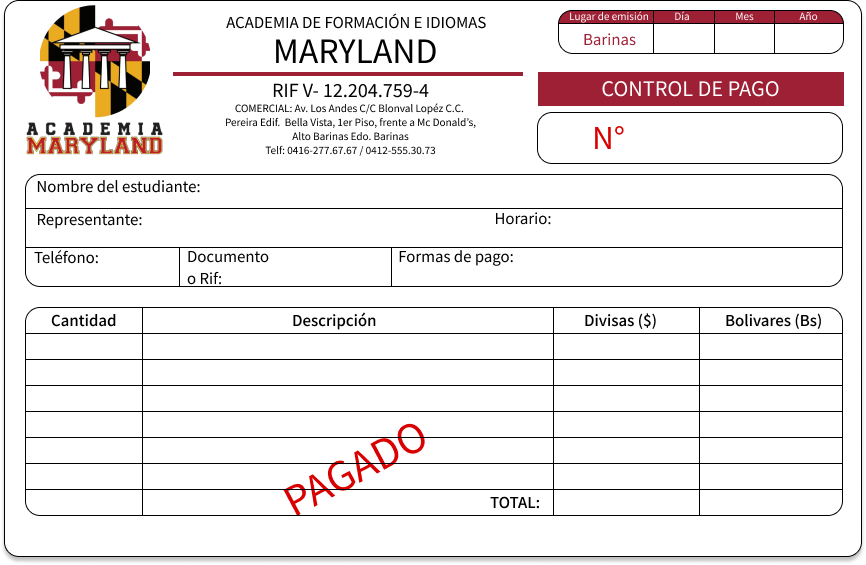
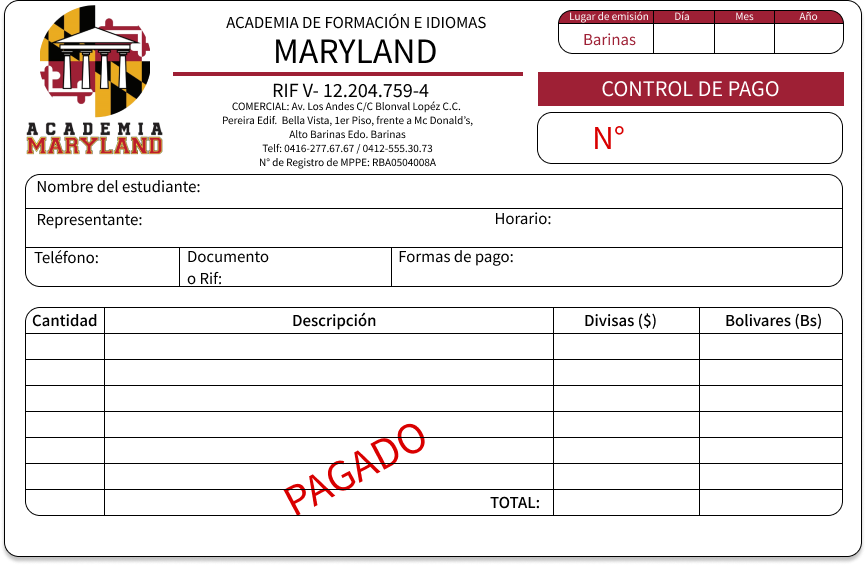
Correcciones en los recibos y planillas

Changed region(s): [[0.2494, 0.1805, 0.5612, 0.3009], [0.0312, 0.5416, 0.1247, 0.6018]]

diff --git a/resources/views/admin/pagos/recibo.blade.php b/resources/views/admin/pagos/recibo.blade.php
@@ -34,15 +34,16 @@
 
                                     {{-- Membrete de la academia --}}
                                     <div class="d-flex flex-column flex-fill align-self-center text-center text-dark mx-5">
-                                        <p class="m-0">FORMACIÓN E IDIOMAS FARFÁN</p>
-                                        <h3 class="text-primary">ACADEMIA MARYLAN</h3>
+                                        <p class="m-0">ACADEMIA DE FORMACIÓN E IDIOMAS</p>
+                                        <h2 class="text-primary">MARYLAN</h2>
                                         <div class="text-center bg-primary mx-5" style="height: 3px;"></div>
                                         <h5 class="m-0">RIF V- 12.204.759-4</h5>
                                         <p>
                                             COMERCIAL: Av. Los Andes C/C Blonval Lopéz C.C. <br>
                                             Pereira Edif. Bella Vista, 1er Piso, frente a Mc Donald’s, <br>
                                             Alto Barinas Edo. Barinas <br>
-                                            Telf: 0416-277.67.67 / 0412-555.30.73
+                                            Telf: 0416-277.67.67 / 0412-555.30.73 <br>
+                                            N° de Registro de MPPE: RBA0504008A
                                         </p>
 
                                     </div> {{-- Cierre Membrete de la academia --}}
@@ -98,7 +99,7 @@
                                                 Representante:
                                             </div>
                                             <span
-                                                class="ms-2 mt-2 fs-5">{{ $pago->estudiante['representante']['nombre'] ?? '' }}</span>
+                                                class="ms-2 mt-2 fs-5">{{ $pago->estudiante->representantes[0]['nombre'] ?? ''  }}</span>
                                         </div>
                                         <div class="d-flex d-inline-flex ms-5">
                                             <div class="card-text">
@@ -194,14 +195,23 @@
 
                         <div class="card-footer">
                             <div class="card-text text-center">
-                                <a href="/pagos/{{ $pago->id }}/recibopdf" class="btn btn-primary btn-lg"
-                                    id="imprimirRecibo" target="_self">Imprimir</a>
+                                <a href="/generarReciboDePago/{{ $pago->id }}/recibopdf" class="btn btn-primary btn-lg"
+                                    id="imprimirRecibo" target="_self">Imprimir Recibo de pago</a>
                             </div>
                         </div>
 
                     </div>
                 </div>
-
+                @if ($_GET['codigoInscripcion'])
+                    <p class="text-start  mt-3">
+                        <a href="/inscripciones/{{ $pago->cedula_estudiante }}/{{ $_GET['codigoInscripcion'] ?? '0000' }}"
+                            class="btn btn-primary btn-lg" target="_self" id="imprimirRecibo">
+                            <i class="bi bi-printer"></i>
+                            Imprimir Planilla de Inscripción
+                        </a>
+                    </p>
+                    
+                @endif
             </div>
 
 

diff --git a/app/Http/Controllers/PagoController.php b/app/Http/Controllers/PagoController.php
@@ -16,6 +16,7 @@ use Barryvdh\DomPDF\Facade\PDF;
 use App\Http\Requests\StorePagoRequest;
 use App\Http\Requests\UpdatePagoRequest;
 use Illuminate\Support\Facades\App;
+use Illuminate\Support\Facades\Request;
 
 class PagoController extends Controller
 {
@@ -69,16 +70,15 @@ class PagoController extends Controller
         }
     }
 
-    public function getPagoEstudiante($request)
+    public function getPagoEstudiante($request, $codigoInscripcion)
     {
+     
         try {
-            $notificaciones = $this->data->notificaciones;
-            $usuario = $this->data->usuario;
             $metodos = $this->data->metodosPagos;
             $codigo = Helpers::getCodigo('pagos');
             $conceptos = Concepto::where('estatus', 1)->get();
             $estudiante = Estudiante::where("cedula", $request)->get();
-            return view('admin.pagos.crear', compact('notificaciones', 'usuario', 'conceptos', 'metodos', 'codigo', "estudiante"));
+            return view('admin.pagos.crear', compact('conceptos', 'metodos', 'codigo', "estudiante", 'codigoInscripcion'));
         } catch (\Throwable $th) {
             $errorInfo = Helpers::getMensajeError($th, "Error al Consultar datos de pago del estudiante en el método getPagoEstudiante,");
             return response()->view('errors.404', compact("errorInfo"), 404);
@@ -93,9 +93,9 @@ class PagoController extends Controller
      */
     public function store(StorePagoRequest $request)
     {
+       
         try {
-            $notificaciones = $this->data->notificaciones;
-            $usuario = $this->data->usuario;
+         
             // configuramos las cuotas, metodos y monto para ser almacenados
             $cuotas = Helpers::getArrayInputs($request->request, 'cuo') ?  Helpers::getArrayInputs($request->request, 'cuo') : [0];
             $codigoGrupo = count(Cuota::where('id', $cuotas[0])->get()) ? Cuota::where('id', $cuotas[0])->get()[0]->codigo_grupo : 0;
@@ -147,10 +147,10 @@ class PagoController extends Controller
 
             $respuesta = $this->data->respuesta;
 
-            return $estatusPago ? redirect("pagos/{$id}?mensaje={$mensaje}&estatus={$estatus}")
+            return $estatusPago ? redirect("pagos/{$id}?mensaje={$mensaje}&estatus={$estatus}&codigoInscripcion={$request->codigoInscripcion}")
                 : view(
                     'admin.pagos.crear',
-                    compact('request', 'notificaciones', 'usuario', 'respuesta', 'planes', 'grupos')
+                    compact('request', 'respuesta', 'planes', 'grupos')
                 );
         } catch (\Throwable $th) {
             $errorInfo = Helpers::getMensajeError($th, "Error al Consultar datos de pago del estudiante en el método getPagoEstudiante,");

diff --git a/resources/views/admin/pagos/crear.blade.php b/resources/views/admin/pagos/crear.blade.php
@@ -57,7 +57,7 @@
                             </a>
                           </span>
                           <input type="text" name="cedula_estudiante" class="form-control fs-5" id="cedula" 
-                          value="{{$estudiante[0]->cedula ?? ""}}"
+                          value="{{ $estudiante[0]->cedula ?? ""}}"
                           placeholder="Ingrese Cédula del estudiante"
                           required>
                           <div class="invalid-feedback">Por favor, Ingrese cédula del estudiante!</div>
@@ -140,7 +140,10 @@
                         <div class="invalid-feedback">Por favor, Ingrese monto a pagar!</div>
                       </div>
 
-                     
+                      <!-- Se envia un codigo de inscripcion en caso de que exista -->
+                     @if (isset($codigoInscripcion))
+                         <input type="hidden" name="codigoInscripcion" value="{{ $codigoInscripcion }}">
+                     @endif
                      
                      
                   
@@ -150,9 +153,11 @@
                   
                 </form>
 
+               
+
               </div>
             </div>
-
+           
           </div>
         </div>
       </div>

diff --git a/resources/views/admin/inscripciones/planilla.blade.php b/resources/views/admin/inscripciones/planilla.blade.php
@@ -277,10 +277,21 @@
                 </div>
             </div>
 
-            <div class="col-lg-12">
-                <p class="text-center mt-3">
+            <div class="col-lg-12 d-flex  ">
+                <p class="text-center col-6  mt-3">
                     <a href="/inscripciones/{{ $inscripcione->cedula_estudiante }}/{{ $inscripcione->codigo }}"
-                        class="btn btn-primary btn-lg" target="_self" id="imprimirRecibo">Imprimir</a>
+                        class="btn btn-primary btn-lg" target="_self" id="imprimirRecibo">
+                        <i class="bi bi-printer"></i>
+                        Imprimir Planilla
+                    </a>
+                </p>
+
+                <p class="text-center col-6 mt-3">
+                    <a href="/pagos/{{ $inscripcione->cedula_estudiante }}/{{ $inscripcione->codigo }}"
+                        class="btn btn-primary btn-lg" target="_self" id="imprimirRecibo">
+                        <i class="bi bi-paypal" ></i>
+                        Procesar pago
+                    </a>
                 </p>
             </div>
 

diff --git a/routes/web.php b/routes/web.php
@@ -87,8 +87,8 @@ Route::middleware('auth')->group(function () {
     /**
      * Rutas de Planes de pago
      */
-    Route::get('/pagos/{id}/recibopdf', [PagoController::class, 'recibopdf'])->name('admin.pagos.recibopdf');
-    Route::get('/pagos/{cedula}/estudiante', [PagoController::class, 'getPagoEstudiante'])->name('admin.pagos.estudiante');
+    Route::get('/pagos/{cedula}/{codigo}', [PagoController::class, 'getPagoEstudiante'])->name('admin.pagos.process');
+    Route::get('/generarReciboDePago/{id}/recibopdf', [PagoController::class, 'recibopdf'])->name('admin.pagos.recibopdf');
     Route::resource('/pagos', PagoController::class)->names('admin.pagos');
     
     /**

diff --git a/app/Http/Controllers/InscripcioneController.php b/app/Http/Controllers/InscripcioneController.php
@@ -183,7 +183,7 @@ class InscripcioneController extends Controller
                     );
             } else {
                 // Cuando el estudiante no esta registrado retorna el boton de registrar estudiante
-                return "el estudiante NO existe";
+              
 
                 $this->data->respuesta['mensaje'] = "¡El estudiante no esta registrado en el sistema, Por favor proceda a registrarlo!";
                 $this->data->respuesta['estatus'] = 404;

diff --git a/resources/views/admin/pagos/recibopdf.blade.php b/resources/views/admin/pagos/recibopdf.blade.php
@@ -191,7 +191,7 @@
         {{-- Nombre del estudiante --}}
         <p class="nombreEstudiante">{{$pago->estudiante['nombre'] ?? '' }}</p>
         {{-- Nombre del Representante --}}
-        <p class="nombreRepresentante">{{$pago->estudiante['representante']['nombre'] ?? '' }}</p>
+        <p class="nombreRepresentante">{{$pago->estudiante->representantes[0]['nombre'] ?? '' }}</p>
         
         {{-- Nombre del Horario --}}
         <p class="horario">
